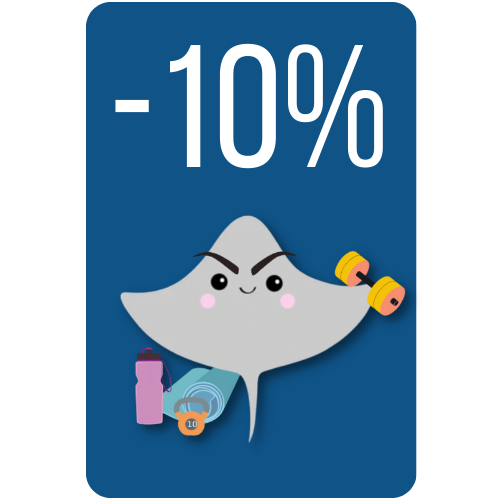
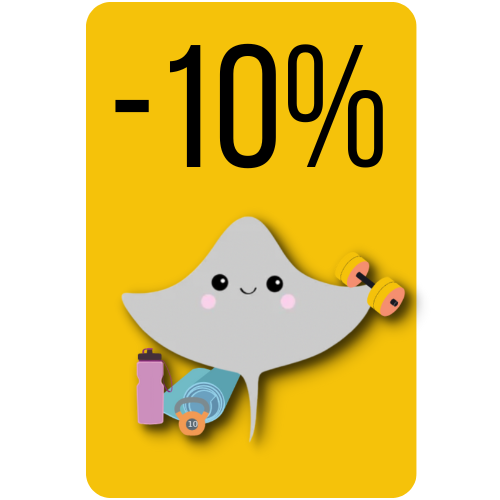
more styleee

diff --git a/app/assets/stylesheets/components/_card.scss b/app/assets/stylesheets/components/_card.scss
@@ -25,7 +25,7 @@
 .card h2 {
   font-size: 20px;
   // font-family: Amatic SC;
-  color: $dark_blue;
+  color: black;
 }
 
 
@@ -103,6 +103,8 @@
     h2{
       font-size: 20px;
       color: black;
+      text-decoration: underline ;
+      text-decoration-color: $our_yellow;
     }
     p{
       color: grey;
@@ -174,4 +176,59 @@
 .allmessages {
   height: 440px;
   overflow: scroll;
+}
+
+
+// challenge show 1st card
+.dashboard{
+  background-color: transparent;
+  display: flex;
+  flex-direction: row;
+  //column-gap: 15px;
+  justify-content:space-between;
+    h1{
+      font-size: 60px;
+      margin-bottom: 0;
+      color: black;
+    }
+   p{
+     color: grey;
+     font-size: 12px;
+     text-align: center;
+   }
+   h2{
+    font-size: 35px;
+    margin-bottom: 0;
+    color: black;
+    }
+  .remaining-days{
+    box-shadow: 0 1px 2px rgba(0,0,0,0.2);
+    background-color: white;
+    border-radius: 10px;
+    padding: 3px 35px;
+    display: flex;
+    flex-direction: column;
+    align-items: center;
+    justify-content: center;
+
+  }
+  .balance-info{
+    display: flex;
+    flex-direction: column;
+    column-gap: 4px;
+
+    .dashboard-item{
+      box-shadow: 0 1px 2px rgba(0,0,0,0.2);
+      background-color: $our_yellow;
+      border-radius: 10px;
+      //margin: 5px;
+      padding: 3px 15px;
+      text-align: center;
+      p {
+        margin: 0;
+        color: white;
+        //font-weight: bold;
+      }
+    }
+  }
 }

diff --git a/app/assets/stylesheets/components/_progress_bar.scss b/app/assets/stylesheets/components/_progress_bar.scss
@@ -1,15 +1,34 @@
 
-.icon {
-  text-align: right;
-  margin-right: -3px;
-  display: block;
-}
-
 .progress{
   margin-bottom: 4px;
   margin-top: 5px;
   border-radius: 20px;
   margin-left: 10px;
   margin-right: 10px;
+
+
+}
+
+.progress-bar{
+  background-color: $our_yellow;
+  display: flex;
+  flex-direction: row;
+  justify-content: flex-end;
+  column-gap: 10px;
+  // z-index:100;
+  // position: relative;
+
+  .icon {
+    // z-index: 10;
+    // position: absolute;
+
+    // text-align: right;
+    margin-right: -3px;
+  }
+  .value{
+    text-align: center;
+    color: black;
+    //position: relative;
+  }
 
 }

diff --git a/app/assets/stylesheets/components/_button.scss b/app/assets/stylesheets/components/_button.scss
@@ -23,6 +23,7 @@
   box-shadow: 0 1px 2px rgba(0,0,0,0.75);
   font-family: "Bebas Neue", cursive;;
   font-size: larger;
+
 }
 
 .btn-sting:hover {

diff --git a/app/assets/stylesheets/components/_chatroom.scss b/app/assets/stylesheets/components/_chatroom.scss
@@ -28,3 +28,7 @@
     }
   }
 }
+
+.messagebox{
+  border-radius: 10px;
+}

diff --git a/app/controllers/challenges_controller.rb b/app/controllers/challenges_controller.rb
@@ -42,8 +42,10 @@ class ChallengesController < ApplicationController
     @message.challenge = @challenge
     @challenge = Challenge.find(params[:id])
     authorize @challenge
+    @week = @challenge.current_week
     @user_participation = Participation.find_by(challenge: @challenge, user: current_user)
     @user_cards = Card.where(participation: @user_participation)
+    @user_last_progress = WeeklyProgress.find_by(challenge: @challenge, user: current_user, week_num: @week)
   end
 
   private
